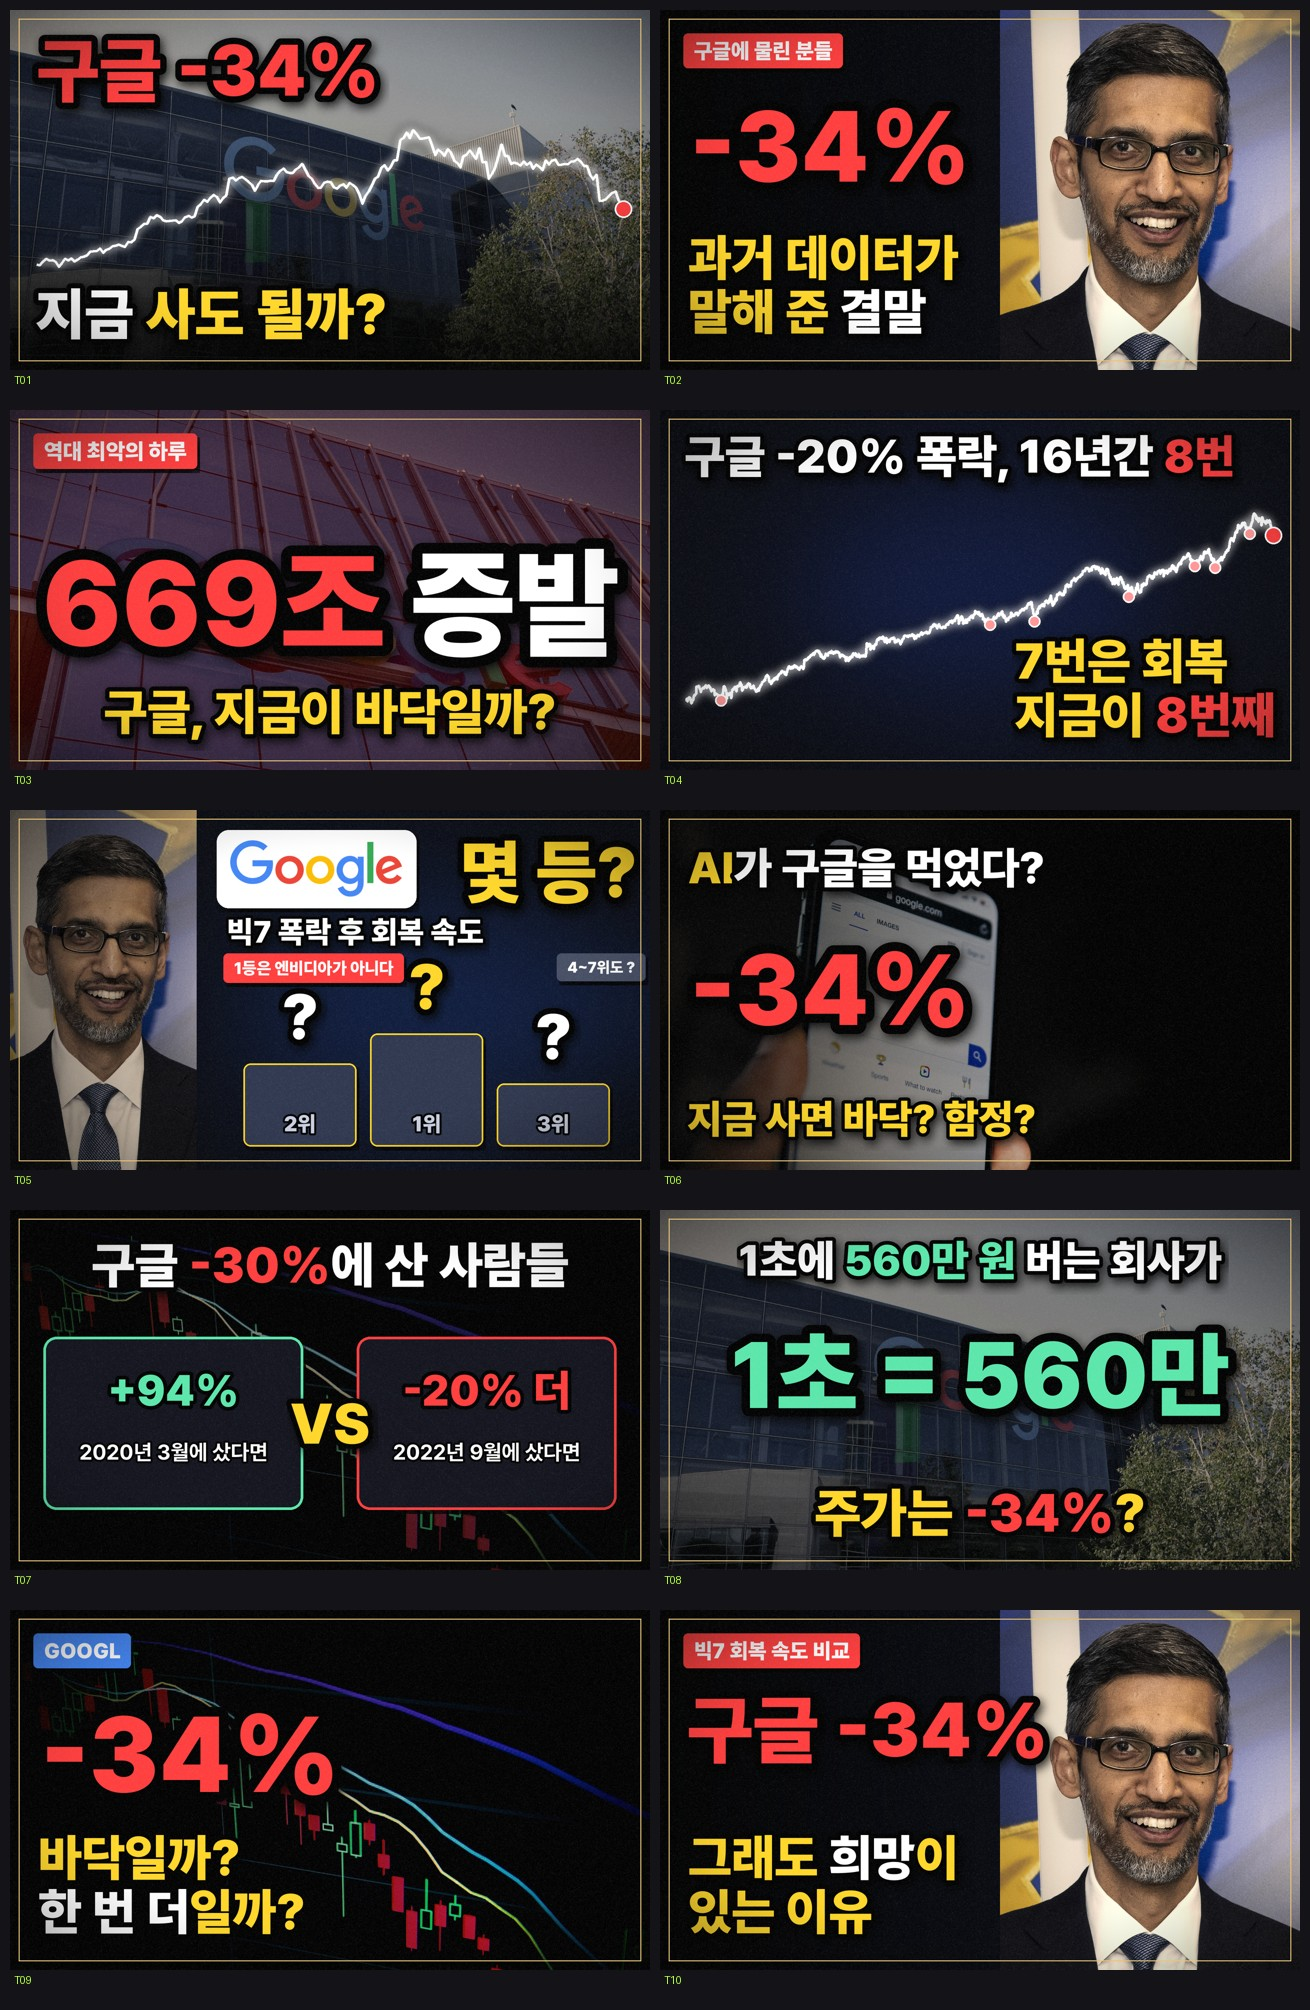
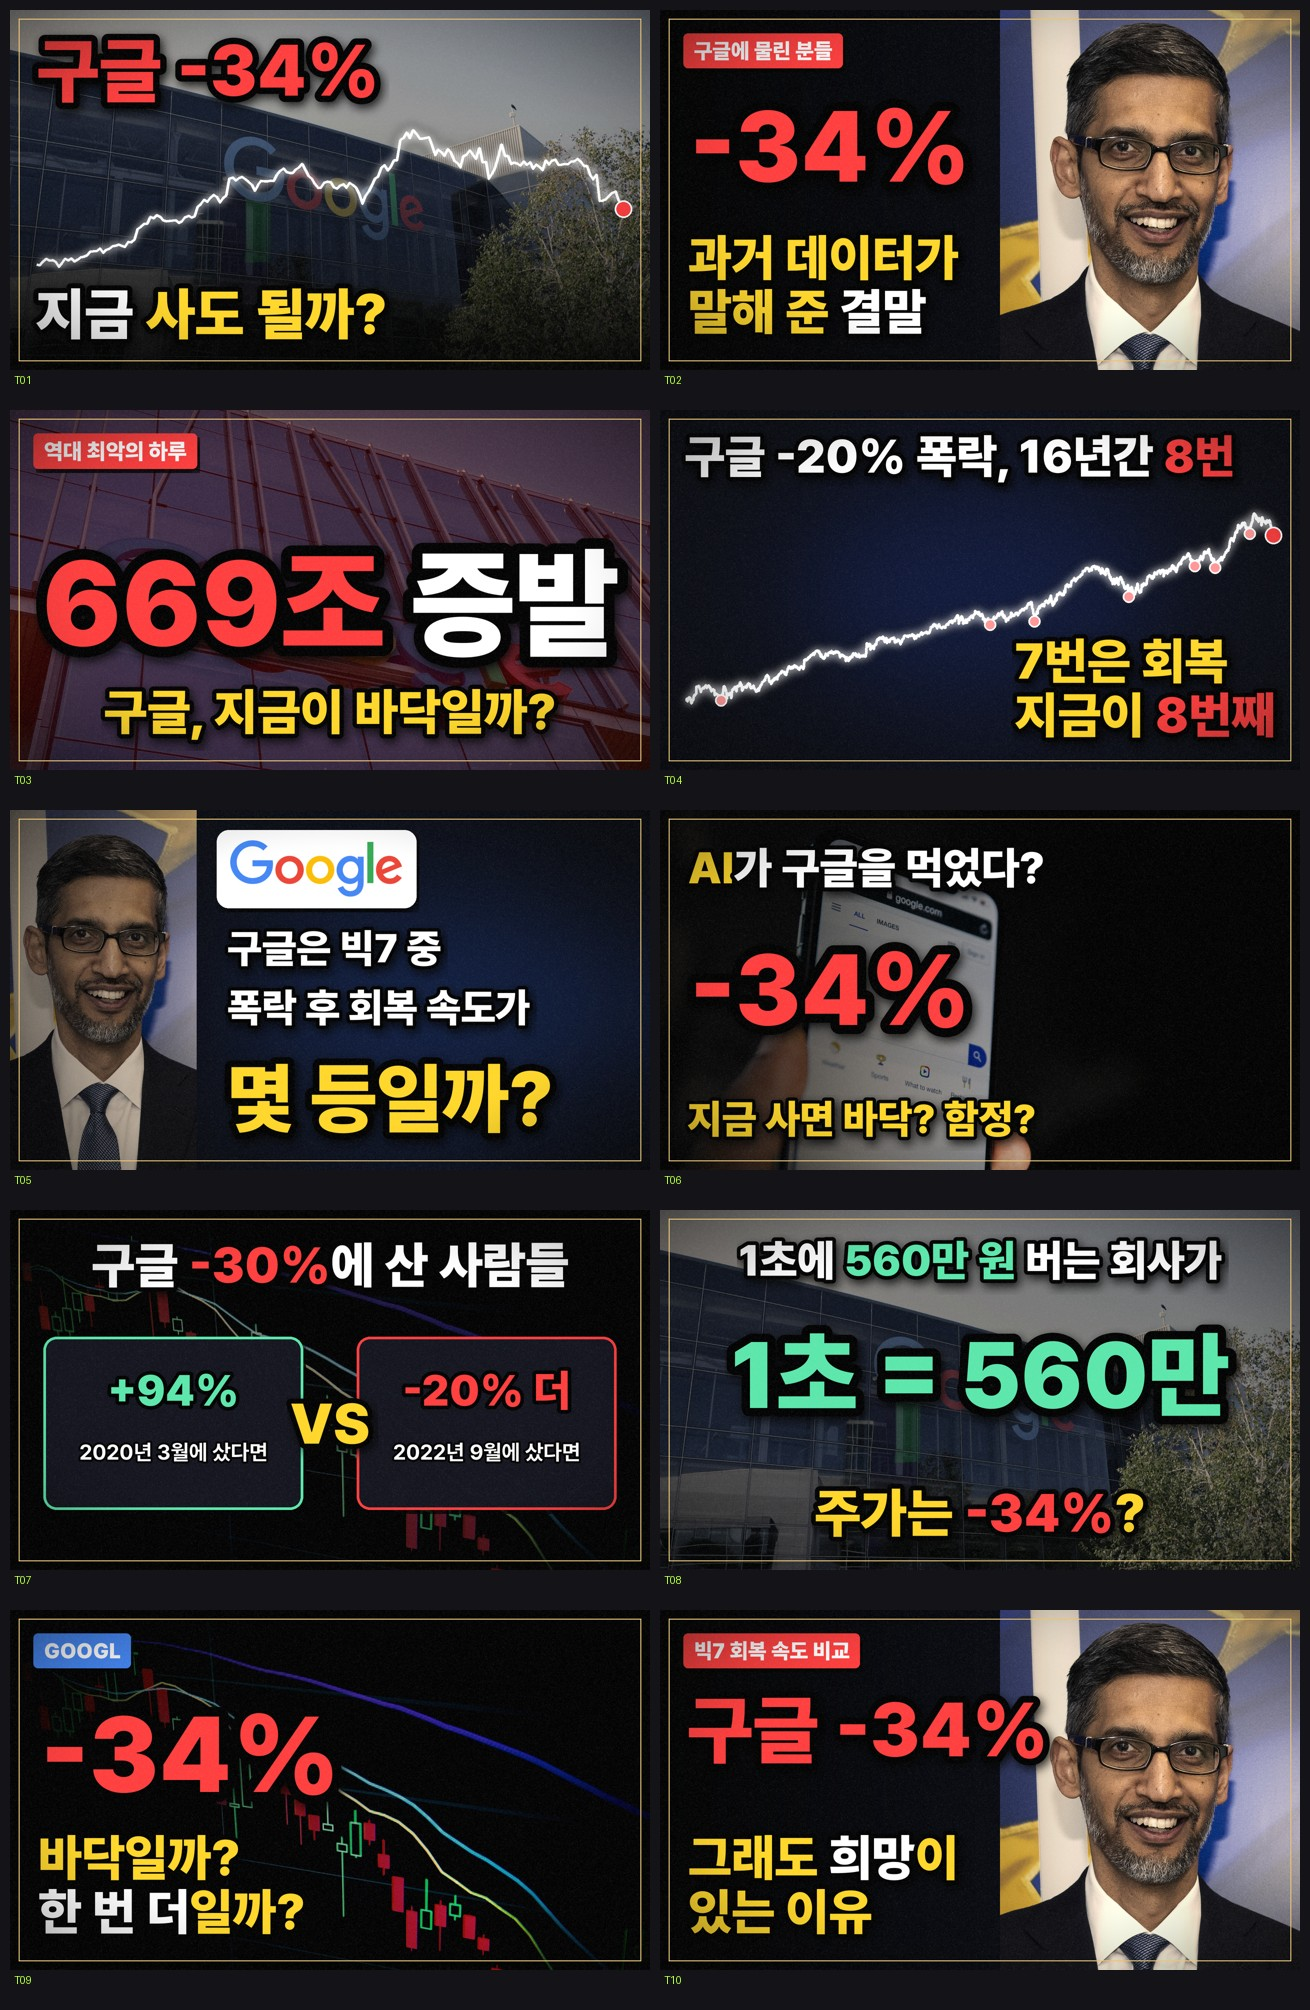
EP024 썸네일 T05: 시상대 대신 문장 '구글은 빅7 중 폭락 후 회복 속도가 몇 등일까?'
Claude-Session: https://claude.ai/code/session_01XzgYRsYwxnJKVwoBmLGtiR

Changed region(s): [[0.1527, 0.401, 0.4885, 0.5861]]

diff --git a/youtube/tools/thumb_google.py b/youtube/tools/thumb_google.py
@@ -140,21 +140,13 @@ def make(sp):
         ImageDraw.Draw(card).rounded_rectangle((0, 0, card.width - 1, card.height - 1), 36, fill=(255, 255, 255, 255))
         card.alpha_composite(lg, (40, 30))
         TH.shadowed(f, card, (620, 60))
-        TH.shadowed(f, big("몇 등?", 210, 700, color=YEL), (1330, 40))
-        TH.shadowed(f, big("빅7 폭락 후 회복 속도", 92, 1250, color=WHITE), (640, 300))
-        # 시상대: 2위 · 1위 · 3위 (전부 물음표 + 커튼)
-        x0, base_y = 700, 1010
-        for rank, hgt, x in ((2, 250, x0), (1, 340, x0 + 380), (3, 190, x0 + 760)):
-            blk = Image.new("RGBA", (340, hgt), (0, 0, 0, 0))
-            dd = ImageDraw.Draw(blk)
-            dd.rounded_rectangle((0, 0, 339, hgt - 1), 22, fill=(46, 54, 78, 255), outline=(255, 214, 40, 255), width=5)
-            n = TH.T(f"{rank}위", 64, (200, 206, 222))
-            blk.alpha_composite(n, ((340 - n.width) // 2, hgt - n.height - 22))
-            TH.shadowed(f, blk, (x, base_y - hgt))
-            q = TH.T("?", 190, YEL if rank == 1 else WHITE)
-            TH.shadowed(f, q, (x + 170, base_y - hgt - 8), "mb")
-        TH.shadowed(f, pill("4~7위도 ?", 46, bg=(70, 78, 100)), (1640, 430))
-        TH.shadowed(f, pill("1등은 엔비디아가 아니다", 50, bg=RED), (640, 430))
+        # 11/23 사용자: 힌트 그림 대신 친절하고 직관적인 문장으로
+        s1 = big("구글은 빅7 중", 120, 1240, color=WHITE)
+        s2 = big("폭락 후 회복 속도가", 120, 1240, color=WHITE)
+        s3 = big("몇 등일까?", 230, 1240, color=YEL, hl="몇 등", hl_color=YEL)
+        TH.shadowed(f, s1, (640, 330))
+        TH.shadowed(f, s2, (640, 330 + s1.height + 10))
+        TH.shadowed(f, s3, (630, 330 + s1.height + s2.height + 40))
     elif v == "phone":       # 검색 화면 + AI 질문
         f.alpha_composite(photo("g_search_phone", W, H, focus=(0.45, 0.4), dark=0.3, gray=0.1))
         shade(f, "left", 0.7, 245)
